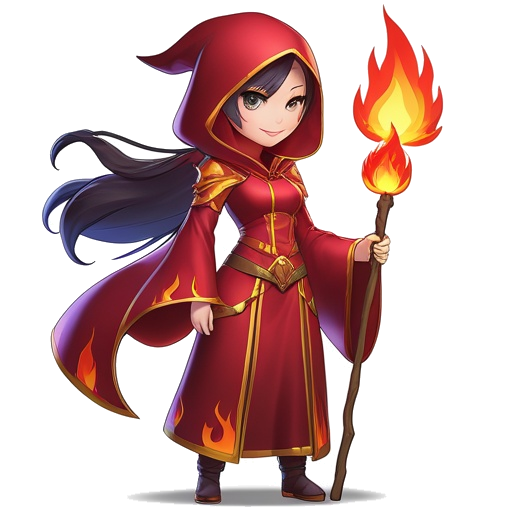
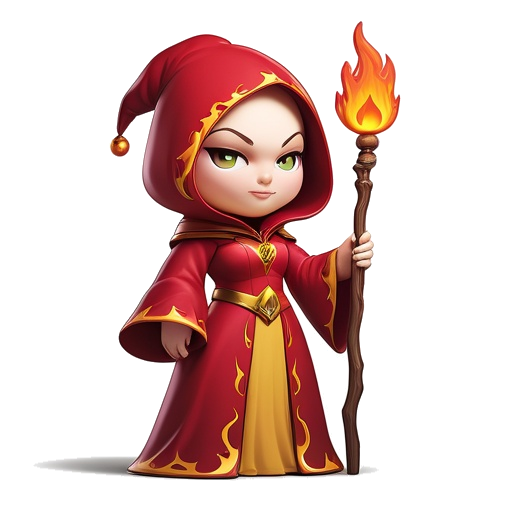
circle-heroes: 화염마법사 재조정본으로 교체, 관우 최종 커밋 (2개 완성)
- mage_flame_001.png: 순수 텍스트 방식(참조 이미지 없이)으로 재생성한 버전으로
  교체. 2.4등신 — succubus 배치(2.0~2.3등신)에 더 가까움.
- guan_yu_001.png: 신규. 1.9등신으로 목표에 가장 근접.
- 서큐버스/데스나이트는 아직 최종본 미확정 (접수 현황 표 갱신).

diff --git a/circle-heroes/PROMPTS.md b/circle-heroes/PROMPTS.md
@@ -146,9 +146,10 @@ no stat bars, no frame, no border, no UI elements, no watermark.
 
 | 에셋 | 상태 |
 |---|---|
-| 화염마법사 전투 | **커밋됨** — `assets/characters/mage_flame_001.png` (기준 이미지, Leonardo Phoenix) |
-| 서큐버스 전투 | 1차 수신 (치비 스타일) — 재통일 예정 |
-| 데스나이트 전투 | 미수신 |
+| 화염마법사 전투 | **커밋됨** — `assets/characters/mage_flame_001.png` (2.4등신, 순수 텍스트 방식) |
+| 관우(삼국지) 전투 | **커밋됨** — `assets/characters/guan_yu_001.png` (1.9등신) |
+| 서큐버스 전투 | 1차 수신 (치비 스타일, 2.0~2.3등신) — 최종 확정 전 |
+| 데스나이트 전투 | 1차 수신 (리니지풍 은갑옷+금장+해골+황금검) — 비율(성인체형) 재조정 필요 |
 | 슬라임 | 1차 수신 — 품질 양호 |
 | 보스슬라임 | 미수신 |
 | 전투 배경 | 미수신 |
